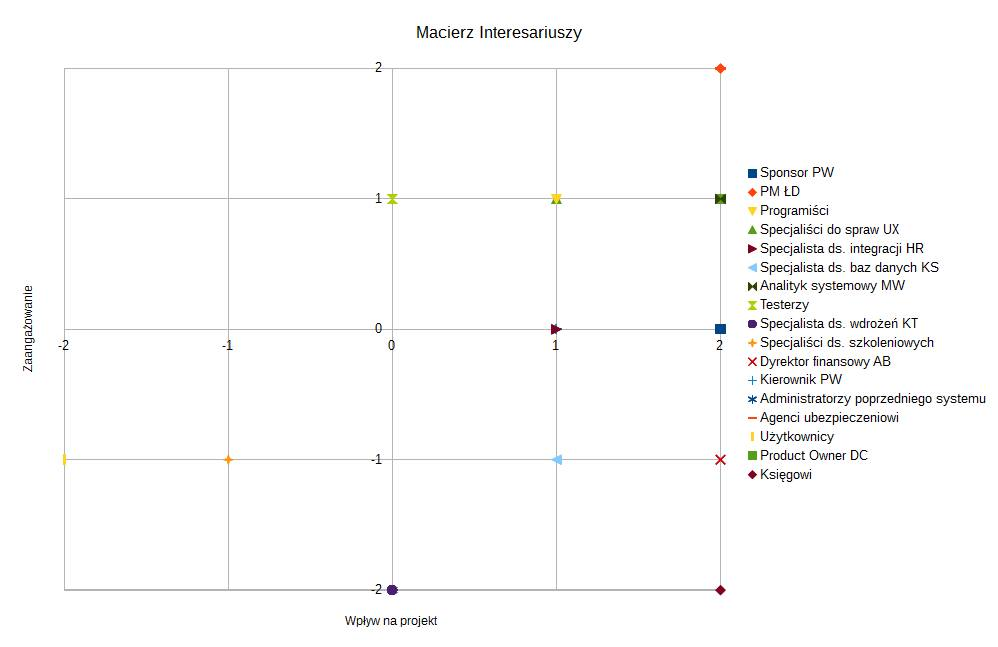
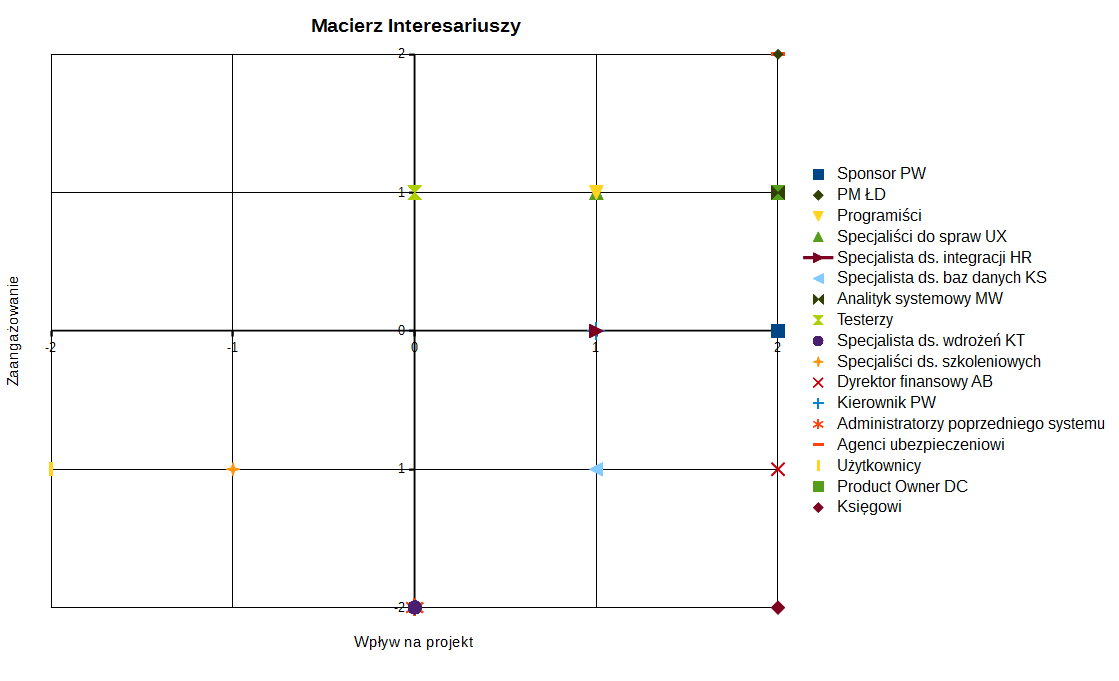
Powiekszenie macierzy interesariuszy

diff --git a/Interesariusze_Komunikacja/main.tex b/Interesariusze_Komunikacja/main.tex
@@ -55,7 +55,7 @@ Zewnętrzni & Kierownik PW & może zmieniać budżet, może anulować projekt, m
 
 \begin{figure}[h]
     \centering
-    \includegraphics[scale=0.4]{macierz_interesariuszy.png}
+    \includegraphics[scale=0.6]{macierz_interesariuszy.png}
     \caption{Macierz interesariuszy}
 \end{figure}
 
